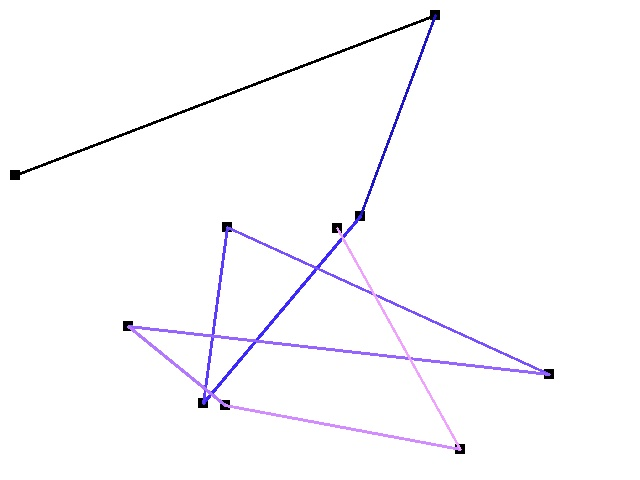
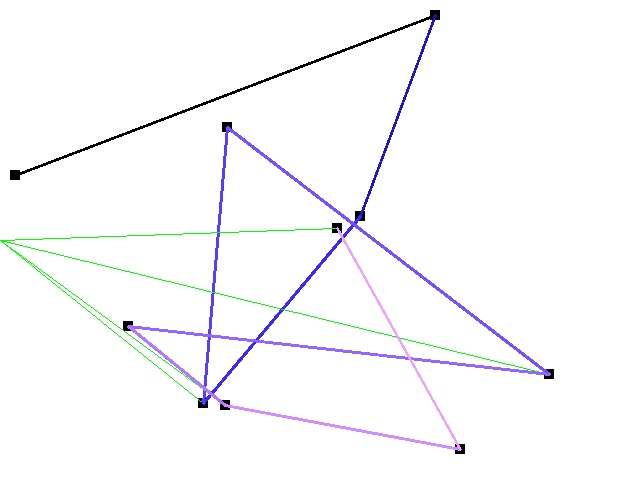
Signed-off-by: Sædvanlige ændringer :D <Emil@10.16.106.85>

diff --git a/ImageTest/src/routeTest/RouteTest.java b/ImageTest/src/routeTest/RouteTest.java
@@ -18,6 +18,10 @@ public class RouteTest {
 	static List<Integer> xCoor = new ArrayList<>();
 	static List<Integer> yCoor = new ArrayList<>();
 	static int total = 0;
+	static Punkt goal = new Punkt(0, 240);
+	static int ballNumber = 0;
+	
+	
 	public static void main(String[] args) {
 
 		System.loadLibrary(Core.NATIVE_LIBRARY_NAME);
@@ -48,13 +52,19 @@ public class RouteTest {
 		yCoor.add(Coordi[c+1]);
 		}
 		for(int i=0;i<xCoor.size()-1;i++){
-			int temp = 0;
+			if(ballNumber == 2){
+				Core.line(frame, new Point(xCoor.get(i+1)+5,yCoor.get(i+1)+5), new Point(goal.getX(), goal.getY()), new Scalar(0,255,0, 7));	
+				ballNumber = 0;
+			}
+			int tempLength = 0;
+			ballNumber++;
 			Core.line(frame, new Point(xCoor.get(i)+5,yCoor.get(i)+5), new Point(xCoor.get(i+1)+5, yCoor.get(i+1)+5), new Scalar(i*200,i*20,i*30), 2);	
 			Calc dist = new Calc();
 			Punkt punkt1 = new Punkt(xCoor.get(i)+5, yCoor.get(i)+5);
 			Punkt punkt2 = new Punkt(xCoor.get(i+1)+5, yCoor.get(i+1)+5);
-			temp = dist.Calcdist(punkt1,punkt2);
-			total = total + temp;
+			tempLength = dist.Calcdist(punkt1,punkt2);
+			total = total + tempLength;
+			
 		}
 		
 		Highgui.imwrite("RouteTest.jpg", frame);

diff --git a/ImageTest/src/Coordinates/FictiveCoordinates.java b/ImageTest/src/Coordinates/FictiveCoordinates.java
@@ -26,7 +26,7 @@ public class FictiveCoordinates {
 		Coordi[6] = 198;	//x
 		Coordi[7] = 398;	//y
 		Coordi[8] = 222;	//x
-		Coordi[9] = 222;	//y
+		Coordi[9] = 122;	//y
 		Coordi[10] = 544;	//x
 		Coordi[11] = 369;	//y
 		Coordi[12] = 123;	//x
